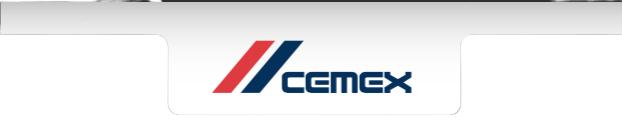
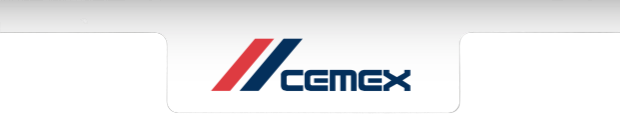
Header, bottom y Log In

diff --git a/src/app/app.component.css b/src/app/app.component.css
@@ -1,28 +1,17 @@
-.grid1{
-    display: grid;
-    grid-template-columns: auto 500px auto;
-}
-
-.header{
+#header{
     width: 100%;
-    height: 20vh;
     background-repeat: no-repeat;
     background-position: center;
     background-size: cover;
     position: fixed;
+    left:0;
+    top: 0;
     height: auto;
-}
-
-.logIn {
-	/*background-repeat: no-repeat;
-	background-size: cover;
-	padding-bottom: 20vh;
-	position: relative;*/
 }
 
 .opacityBottom{
     background-color:black;
-    opacity:0.6; /* Opacidad 60% */
+    opacity:0.3; /* Opacidad 60% */
     position: fixed;
     left: 0;
     bottom: 0;
@@ -31,8 +20,5 @@
     color: white;
     text-align: center;
     padding-top: 35px;
- }
-
- .tipografia{
-    font-family: 'Poppins', sans-serif;
+    bottom: 0;
  }

diff --git a/src/app/app.component.html b/src/app/app.component.html
@@ -1,12 +1,11 @@
 <!--The content below is only a placeholder and can be replaced.-->
-<div class="grid1">
-    <div></div>
-    <div class="">
+<div>
+    <div>
         <img id="header" src="../assets/header.png">
     </div>
-    <div></div>
+    <router-outlet></router-outlet>
+    <div class="opacityBottom">Este contenido lo ha creado el propietario del formulario. 
+        <br>Los datos que proporcione se enviarán a este propietario.
+    </div>
 </div>
-<router-outlet></router-outlet>
-<div class="opacityBottom">Este contenido lo ha creado el propietario del formulario. 
-    <br>Los datos que proporcione se enviarán a este propietario.
-</div>
+

diff --git a/src/app/components/login/login.component.html b/src/app/components/login/login.component.html
@@ -1,1 +1,19 @@
-<p>login works!</p>
+<div class="grid2">
+    <div></div>
+    <div>
+        <div class="blueText">Nombre</div>
+        <input class="inputLogIn">
+        <div class="blueText">Cedula</div>
+        <input class="inputLogIn">
+        <div class="blueText">Sitio de trabajo</div>
+        <select class="selectLogIn">
+            <option>Opción 1</option>
+            <option>Opción 2</option>
+            <option>Opción 3</option>
+            <option>Opción 4</option>
+        </select>
+        <div><img class="" src=""></div>
+        <button class="botonEntrar">Entrar</button>
+    </div>
+    <div></div>
+</div>

diff --git a/src/app/components/login/login.component.css b/src/app/components/login/login.component.css
@@ -1,0 +1,29 @@
+
+ .blueText{
+    font-family: 'Poppins', sans-serif;
+    color: blue;
+    text-align: center;
+    font-weight: bold;
+ }
+
+ .inputLogIn{
+    width: 100%;
+ }
+
+ .grid2{
+    display: grid;
+	grid-template-columns: 20vw auto 20vw;
+	margin-top: 25vh;
+	/*margin-bottom: 22vh;*/
+ }
+
+ .botonEntrar{
+    background-color: red;
+    position: center;
+    color: white;
+ }
+
+ .selectLogIn{
+    width: 100%;
+    margin-bottom: 30vh;
+ }

diff --git a/src/styles.css b/src/styles.css
@@ -1,1 +1,6 @@
 /* You can add global styles to this file, and also import other style files */
+body {
+    background: url("assets/background.PNG");
+	background-repeat: no-repeat;
+	background-size: cover;
+}
